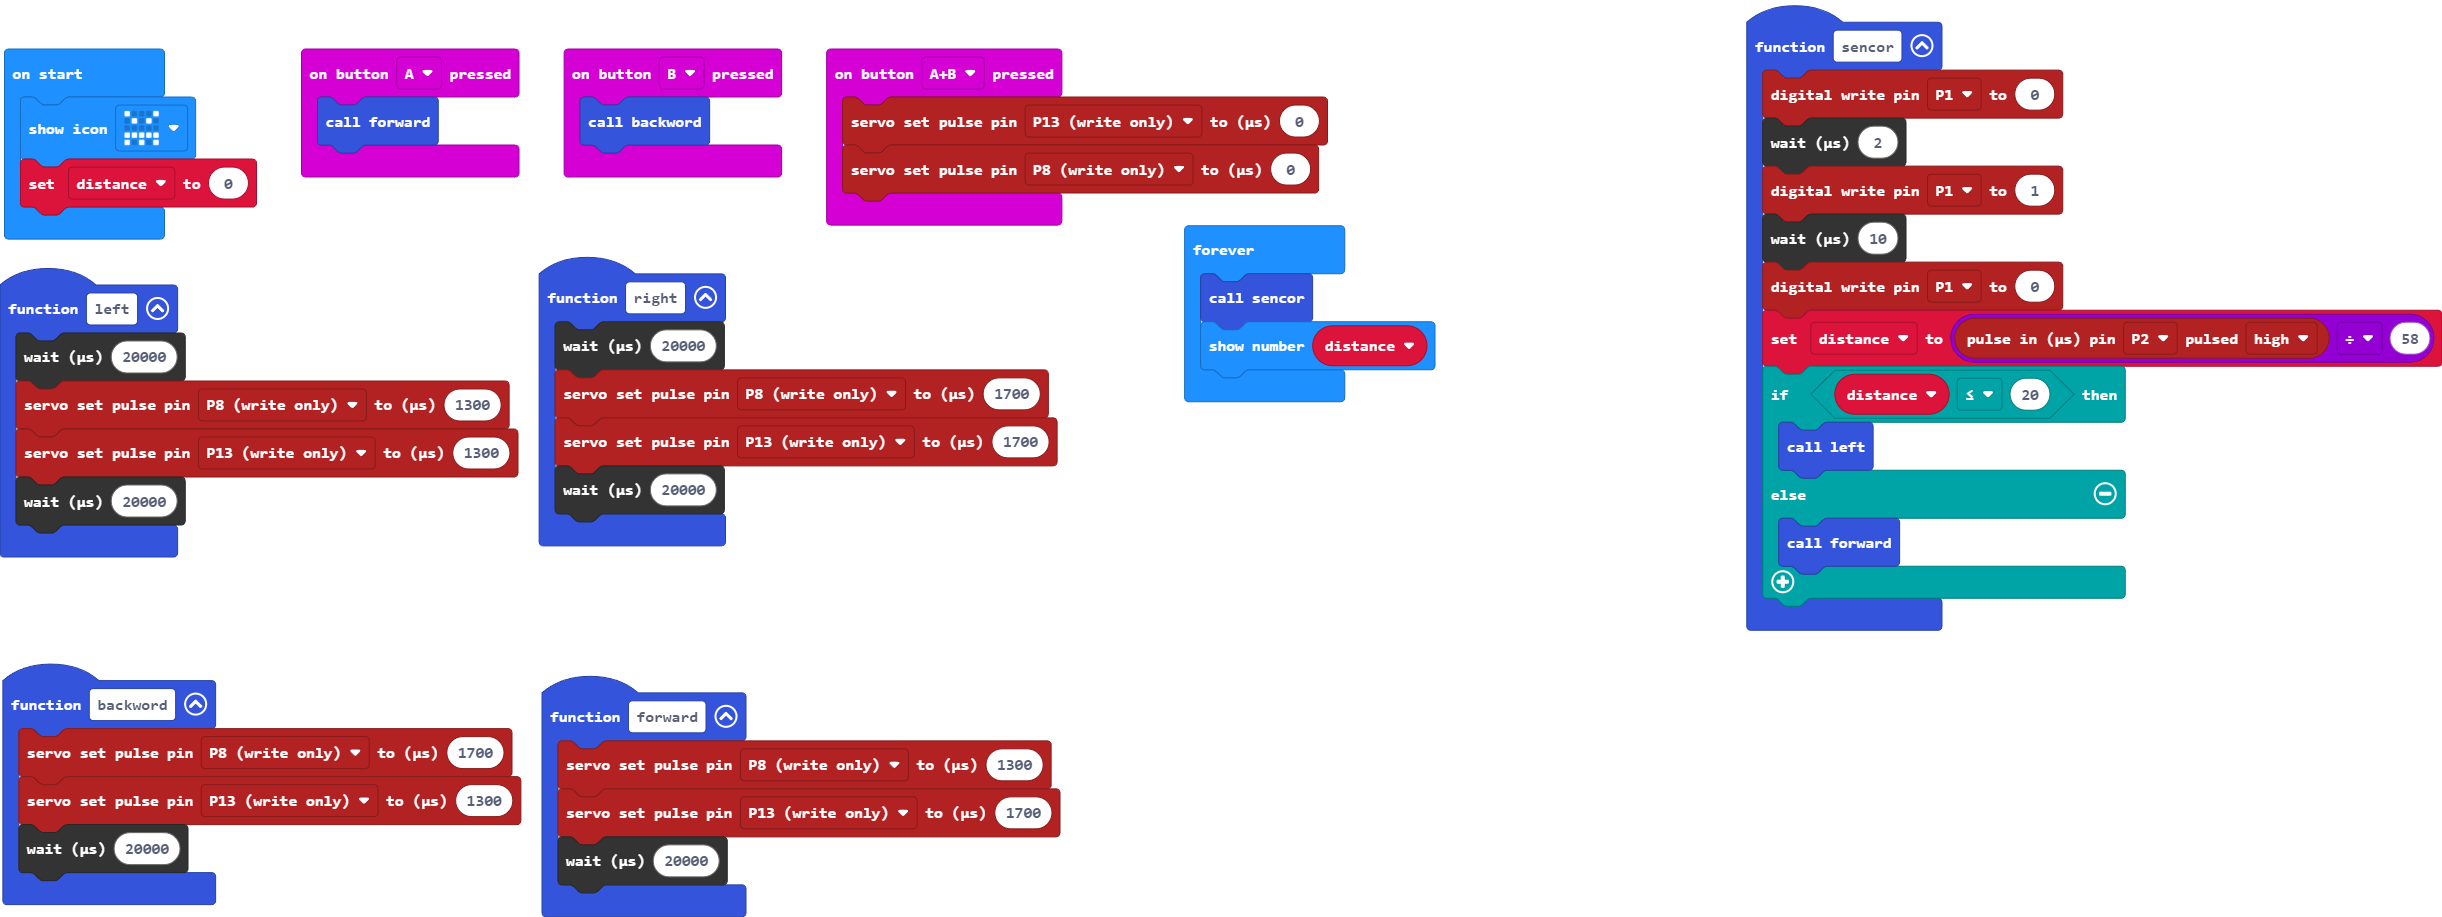
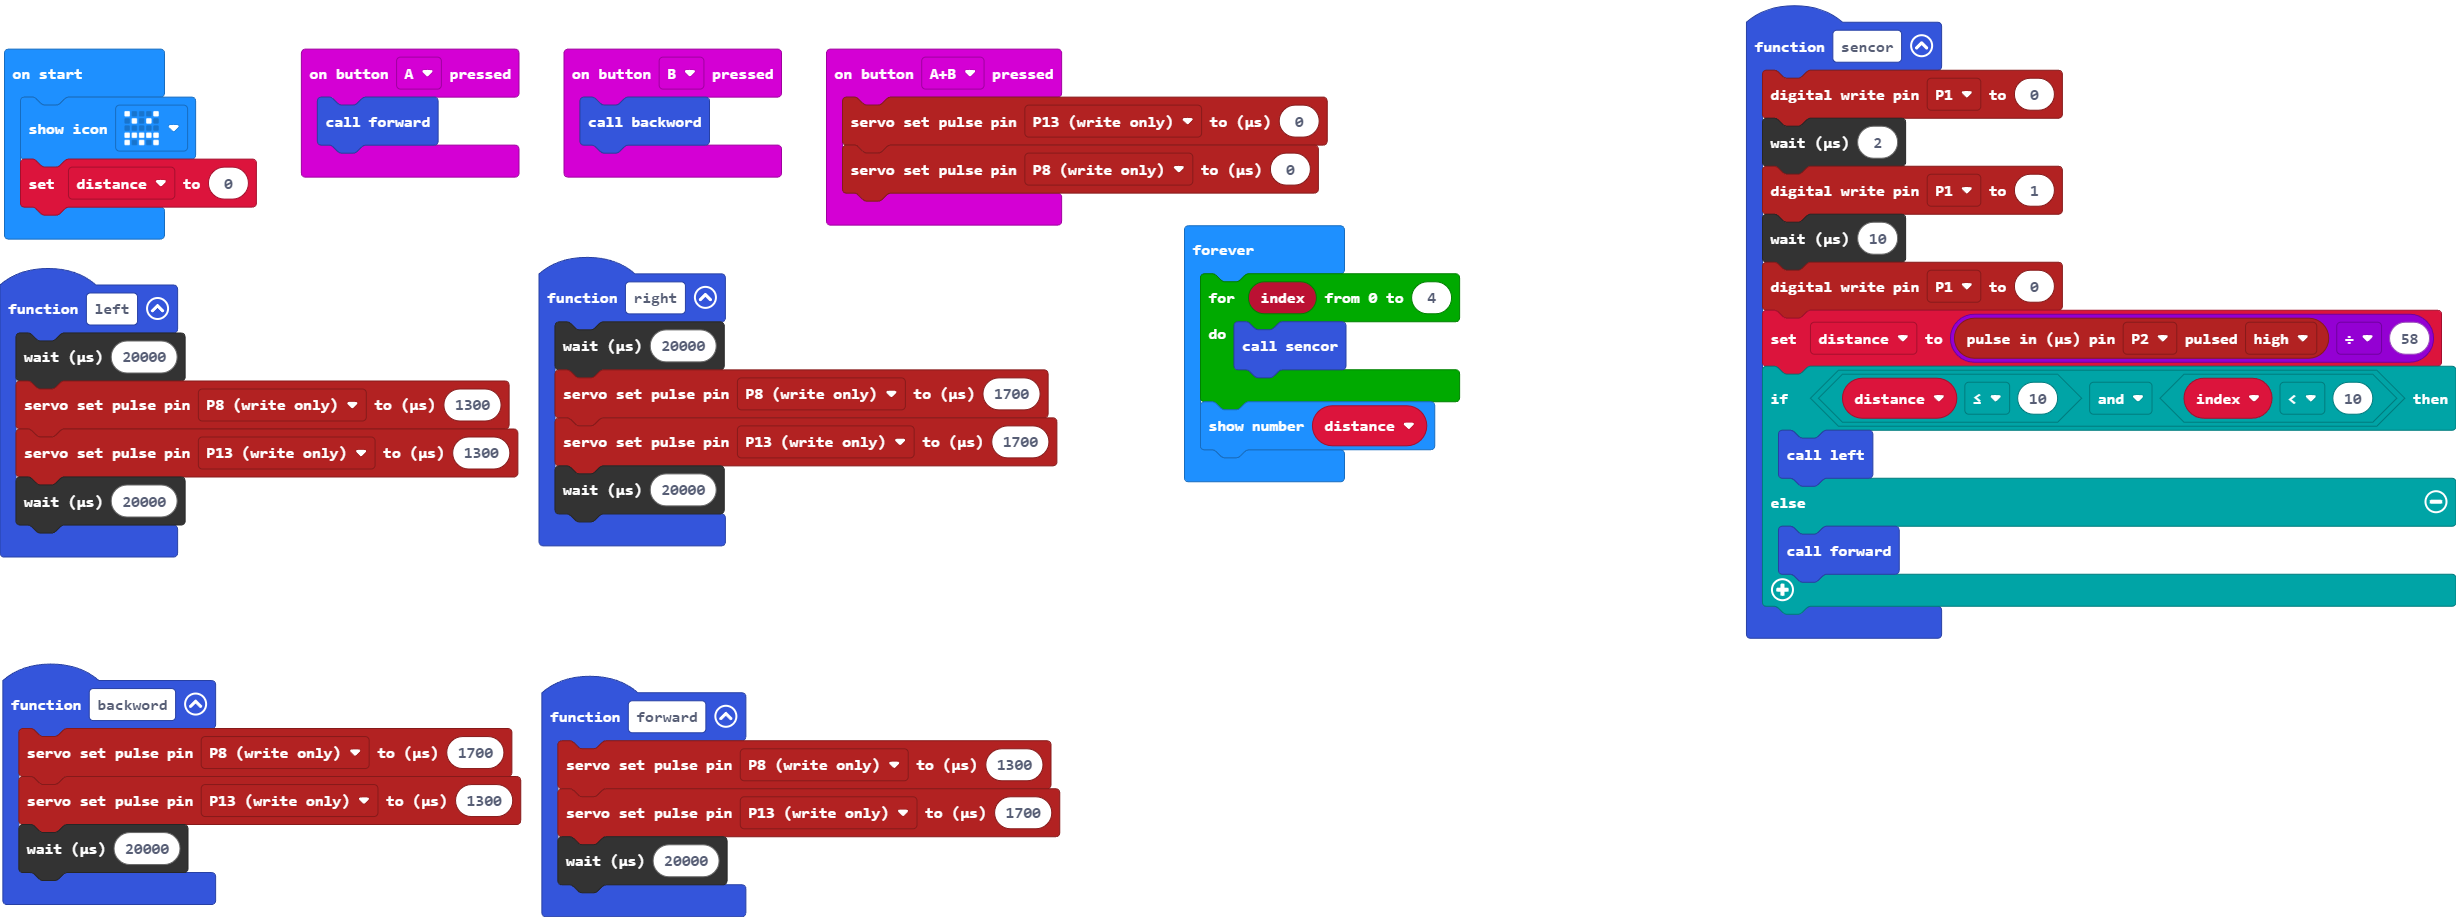
Update main.blocks, main.ts

diff --git a/main.ts b/main.ts
@@ -19,13 +19,14 @@ input.onButtonPressed(Button.A, function () {
     forward()
 })
 function sencor () {
+    let index = 0
     pins.digitalWritePin(DigitalPin.P1, 0)
     control.waitMicros(2)
     pins.digitalWritePin(DigitalPin.P1, 1)
     control.waitMicros(10)
     pins.digitalWritePin(DigitalPin.P1, 0)
     distance = pins.pulseIn(DigitalPin.P2, PulseValue.High) / 58
-    if (distance <= 20) {
+    if (distance <= 10 && index < 10) {
         left()
     } else {
         forward()
@@ -47,6 +48,8 @@ let distance = 0
 basic.showIcon(IconNames.Angry)
 distance = 0
 basic.forever(function () {
-    sencor()
+    for (let index = 0; index <= 4; index++) {
+        sencor()
+    }
     basic.showNumber(distance)
 })
